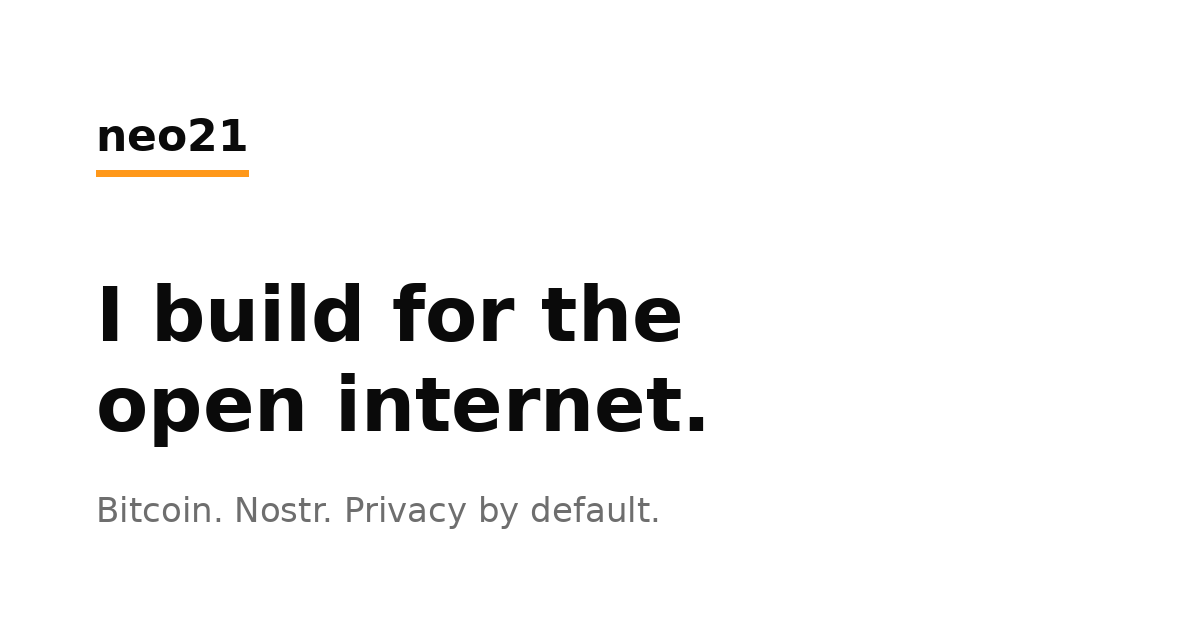
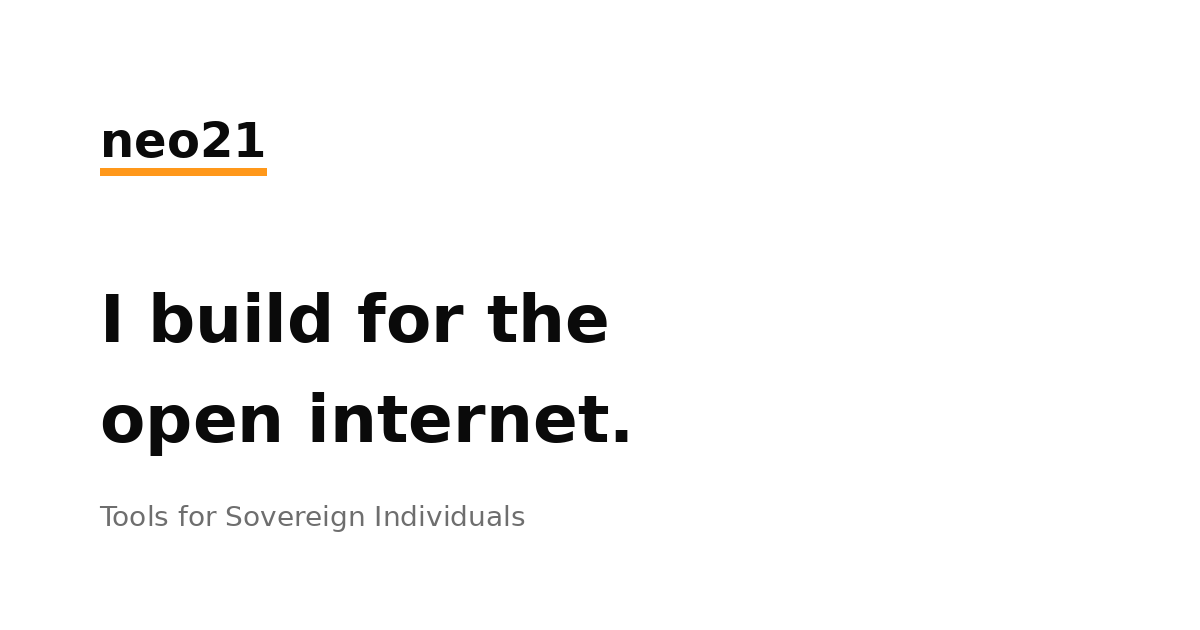
Replace narrow tagline with 'Tools for Sovereign Individuals' in meta, README, and share image

diff --git a/index.html b/index.html
@@ -4,7 +4,7 @@
     <meta charset="UTF-8" />
     <meta name="viewport" content="width=device-width, initial-scale=1.0" />
     <title>neo21 — Tools for Sovereign Individuals</title>
-    <meta name="description" content="Apps that don&#39;t track you, platforms that don&#39;t own you. Bitcoin. Nostr. Privacy by default.">
+    <meta name="description" content="Apps that don&#39;t track you, platforms that don&#39;t own you. Tools for Sovereign Individuals.">
     <meta name="author" content="neo" />
 
     
@@ -27,8 +27,8 @@
   
   <meta property="og:title" content="neo21 — Tools for Sovereign Individuals">
   <meta name="twitter:title" content="neo21 — Tools for Sovereign Individuals">
-  <meta property="og:description" content="Apps that don&#39;t track you, platforms that don&#39;t own you. Bitcoin. Nostr. Privacy by default.">
-  <meta name="twitter:description" content="Apps that don&#39;t track you, platforms that don&#39;t own you. Bitcoin. Nostr. Privacy by default.">
+  <meta property="og:description" content="Apps that don&#39;t track you, platforms that don&#39;t own you. Tools for Sovereign Individuals.">
+  <meta name="twitter:description" content="Apps that don&#39;t track you, platforms that don&#39;t own you. Tools for Sovereign Individuals.">
 </head>
 
   <body>

diff --git a/README.md b/README.md
@@ -1,7 +1,7 @@
-# neo21.dev — Tools for Sovereign Individuals
+# neo21 — Tools for Sovereign Individuals
 
 Apps that don't track you. Platforms that don't own you.  
-Bitcoin. Nostr. Privacy by default.
+Tools for Sovereign Individuals.
 
 ## What is this?
 
